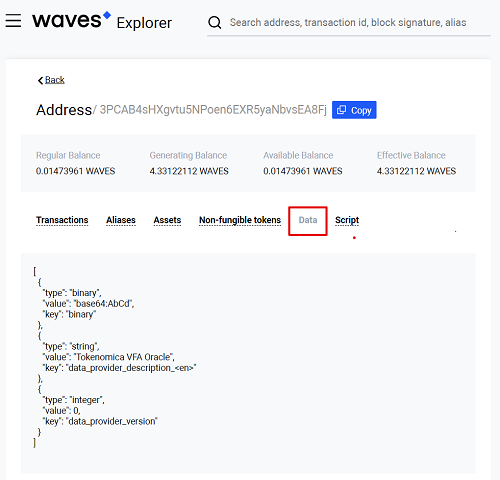
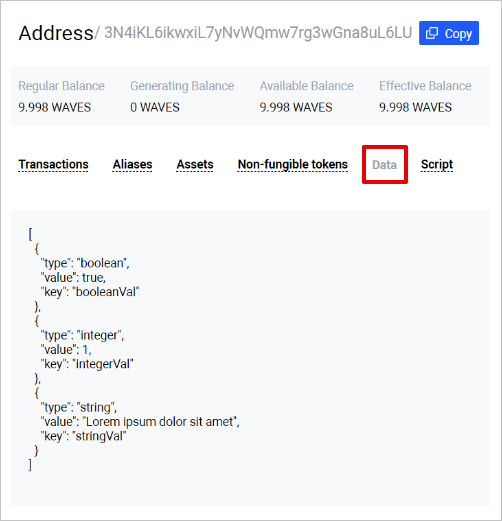
self-edit

diff --git a/docs/en/building-apps/how-to/basic/retrieve.md b/docs/en/building-apps/how-to/basic/retrieve.md
@@ -4,7 +4,7 @@ sidebarDepth: 2
 
 # How to Read Blockchain Data
 
-For example, you can retrive data from account data storage, account balance, a list of transactions by certain asset, or current blockchain height and time.
+All the data in the Waves blockchain is public and can be read by anyone. For example, you can retrive data from account data storage, account balance, a list of transactions by certain account, or current blockchain height and time.
 
 You can send a request to your own node or to one of the Waves nodes with public API:
 * Testnet: <https://nodes-testnet.wavesnodes.com>
@@ -17,7 +17,7 @@ Each account on the Waves blockchain has an account data storage that stores dat
 ### Using Waves Explorer
 
 1. Open <https://wavesexplorer.com/>.
-2. Press ![](./_assets/settings.png) button and switch to Mainnet ot Testnet.
+2. Press ![](./_assets/settings.png) button and switch to ![](./_assets/mainnet.png) or ![](./_assets/testnet.png).
 3. Search for an account by its address or alias.
 4. Switch to **Data** tab.
 
@@ -34,19 +34,19 @@ See method descriptions in [Swagger web interface](https://nodes-testnet.wavesno
 **Request example:**
 
 ```
-curl 'https://nodes-testnet.wavesnodes.com/addresses/data/3Mz9N7YPfZPWGd4yYaX6H53Gcgrq6ifYiH7'
+curl 'https://nodes-testnet.wavesnodes.com/addresses/data/3N4iKL6ikwxiL7yNvWQmw7rg3wGna8uL6LU'
 ```
 
 The examples shown here and below are suitable for the `cURL` utility. You can adjust the proposed request to your app written in any programming language.
 
 ### Using JavaScript
 
-You can use functions of `waves-transactions` library:
+Use functions of `waves-transactions` library:
 
 * `accountData` function retrieves all the data records from an account data storage, optionally filtered by certain regexp.
 * `accountDataByKey` retrieves a data record by key.
 
-See [nodeinteraction module description](https://wavesplatform.github.io/waves-transactions/modules/nodeinteraction.html) on Github.
+See [library documentation](https://wavesplatform.github.io/waves-transactions/modules/nodeinteraction.html) on Github.
 
 **Example:**
 
@@ -54,9 +54,11 @@ See [nodeinteraction module description](https://wavesplatform.github.io/waves-t
 import { nodeInteraction } from "@waves/waves-transactions";
 
 const nodeUrl = 'https://nodes-testnet.wavesnodes.com';
+const address = '3N4iKL6ikwxiL7yNvWQmw7rg3wGna8uL6LU';
 
-let address = '3Mz9N7YPfZPWGd4yYaX6H53Gcgrq6ifYiH7';
-let price = await nodeInteraction.accountDataByKey('price',address,nodeUrl);
+let stringVal = await nodeInteraction.accountDataByKey('stringVal',address,nodeUrl);
+
+console.log('stringVal: ' + stringVal.value);
 ```
 
 ### Using Python
@@ -72,9 +74,11 @@ Each account can store different assets (also called tokens) in different amount
 ### Using Waves Explorer
 
 1. Open <https://wavesexplorer.com/>.
-2. Press ![](./_assets/settings.png) button and switch to Mainnet ot Testnet.
+2. Press ![](./_assets/settings.png) button and switch to ![](./_assets/mainnet.png) or ![](./_assets/testnet.png).
 3. Search for an account by its address or alias.
 4. Balances in WAVES are displayed below the address. Switch to **Assets** tab to see balances in other tokens.
+
+![](./_assets/data-storage-explorer.png)
 
 > NFTs are displayed on the **Non-fungible tokens** tab.
 
@@ -85,6 +89,10 @@ To retrieve all types of balalnces of WAVES, use `GET /addresses/balance/details
 To retrieve balances of other assets, use `GET /assets/balance/{address}` or `GET /assets/balance/{address}/{assetId}` method.
 
 See method descriptions in [Swagger web interface](https://nodes-testnet.wavesnodes.com/).
+
+> :bulb: The easiest way to find out the asset ID by its name and vice versa is to open [Waves.Exchange](https://waves.exchange/) app developed by Waves.Exchange team, go to the **Trading** page and type a name or asset ID in the search bar.
+
+![](./_assets/asset-id.png)
 
 **Request example:**
 
@@ -105,7 +113,7 @@ You can use functions of `waves-transactions` library:
 * `balanceDetails` function retrieves all types of balalnces of WAVES.
 * `assetBalance` function retrieve balances of other assets.
 
-See [nodeinteraction module description](https://wavesplatform.github.io/waves-transactions/modules/nodeinteraction.html) on Github.
+See [library documentation](https://wavesplatform.github.io/waves-transactions/modules/nodeinteraction.html) on Github.
 
 **Example:**
 
@@ -113,16 +121,44 @@ See [nodeinteraction module description](https://wavesplatform.github.io/waves-t
 import { nodeInteraction } from "@waves/waves-transactions";
 
 const nodeUrl = 'https://nodes-testnet.wavesnodes.com';
+const address = '3Mvpp7v6G11tKNgsoNhbgnZS9thdZ6TvAXK';
+const assetId = 'DG2xFkPdDwKUoBkzGAhQtLpSGzfXLiCYPEzeKH2Ad24p';
 
-let address = '3Mz9N7YPfZPWGd4yYaX6H53Gcgrq6ifYiH7';
+let wavesBalance = await nodeInteraction.balanceDetails(address,nodeUrl);
+let assetBalance = await nodeInteraction.assetBalance(assetId,address,nodeUrl);
 
-let wavesBalance = await nodeInteraction.balanceDetails('price',address,nodeUrl);
-let assetsBalance = await nodeInteraction.assetBalance('price',address,nodeUrl);
+console.log('WAVES available balance: ' + wavesBalance.available);
+console.log('WAVES effictive balance: ' + wavesBalance.effective);
+console.log('Neutrino balance: ' + assetBalance.balance);
 ```
 
 #### With User Authentication
 
-If user is authentication in your app, you can use functions of `Signer` library:
+If user is authenticated in your app, you can use functions of `Signer` library:
+
+* `getBalance` provides balances of all assets in user's portfolio. For WAVES, available balance is returned.
+* `getSponsoredBalances` prodives balances of sponsored assets in user's portfolio. См. [Sponsored Fee Transactions](https://docs.wavesplatform.com/en/blockchain/waves-protocol/sponsored-fee).
+
+See [Signer documentation](/en/building-apps/waves-api-and-sdk/client-libraries/signer).
+
+**Example:**
+
+```js
+import Signer from '@waves/signer';
+import Provider from '@waves.exchange/provider-web';
+
+// Library initialization
+
+const signer = new Signer({
+  NODE_URL: 'https://nodes-testnet.wavesnodes.com'
+});
+signer.setProvider(new Provider());
+
+const user = await signer.login();
+let balances = await signer.getBalance();
+
+console.log('User balances: ' + JSON.stringify(balances));
+```
 
 ### Using Python
 
@@ -132,12 +168,12 @@ I need help!
 
 ## List of Transactions by Address
 
-You can get a list of transactions related to the specified account: outgoing transactions that are sent from the account; incoming transfers; exchanges that the account participated in; dApp script invokations etc.
+You can get a list of transactions related to the specified account: outgoing transactions that are sent from the account; incoming transfers; exchanges that the account participated in; dApp script invocations etc.
 
 ### Using Waves Explorer
 
 1. Open <https://wavesexplorer.com/>.
-2. Press ![](./_assets/settings.png) button and switch to Mainnet ot Testnet.
+2. Press ![](./_assets/settings.png) button and switch to ![](./_assets/mainnet.png) or ![](./_assets/testnet.png).
 3. Search for an account by its address or alias.
 4. Switch to **Transactions** tab.
 
@@ -145,12 +181,12 @@ You can get a list of transactions related to the specified account: outgoing tr
 
 To retrieve all the transactions related to an account, use `GET /transactions/address/{address}/limit/{limit}` method. In this method, you can use pagination: to get the next page, specify the `after` parameter as ID of the last transaction in previous response.
 
-See method descriptions in [Swagger web interface](https://nodes-testnet.wavesnodes.com/).
+See method description in [Swagger web interface](https://nodes-testnet.wavesnodes.com/).
 
 **Request example:**
 
 ```
-curl 'https://nodes-testnet.wavesnodes.com/address/3PPcVp7fzNgdncv9HSN7V22mjRESGUNmXGE/limit/20?after=5VsNkFuEsxwaZRHezQkTsfkf7cJxjRGBiahn3H1raKsT'
+curl 'https://nodes-testnet.wavesnodes.com/address/3N4iKL6ikwxiL7yNvWQmw7rg3wGna8uL6LU/limit/20?after=5VsNkFuEsxwaZRHezQkTsfkf7cJxjRGBiahn3H1raKsT'
 ```
 
 You can adjust the proposed request to your app written in any programming language.
@@ -179,10 +215,6 @@ let txList = await api.transactions.fetchTransactions(address,10);
 ```
 Could anybody help me?
 ```
-
-## List of Transactions by Asset
-
-(It seems to be quite difficult, need to discuss)
 
 ## Blockchain Height and Current Time
 

diff --git a/docs/en/building-apps/how-to/readme.md b/docs/en/building-apps/how-to/readme.md
@@ -1,6 +1,6 @@
 # How-to Guides
 
-How-to guides provide step-by-step instructions including sample code that you can follow to complete a specific task.
+How-to guides provide instructions including sample code that you can follow to complete a specific task.
 
 [**Retrieving information from the blockchain**](/en/building-apps/how-to/basic/retrieve)
 
